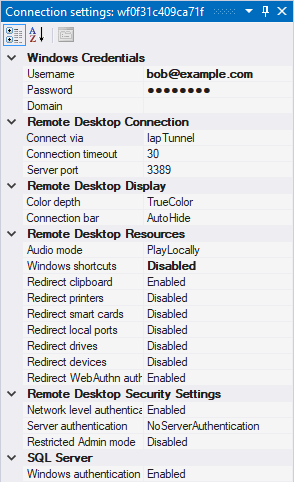
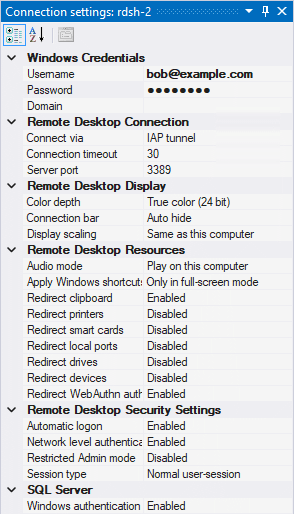
Update 'Connection settings window' page to include new settings, use new enum names

diff --git a/doc/site/sources/docs/toolwindow-connection-settings.md b/doc/site/sources/docs/toolwindow-connection-settings.md
@@ -63,31 +63,31 @@ a member of the _Administrators_ group or the _Remote Desktop users_ group.
 These settings control how IAP Desktop connects to your VM. You can let IAP Desktop connect in one
 of two ways:
 
-*   `IapTunnel`: By default, IAP Desktop connects to the [internal IP address :octicons-link-external-16:](https://cloud.google.com/compute/docs/ip-addresses#networkaddresses)
+*   **IAP Tunnel**: By default, IAP Desktop connects to the [internal IP address :octicons-link-external-16:](https://cloud.google.com/compute/docs/ip-addresses#networkaddresses)
     of your VM [through an IAP-TCP forwarding tunnel :octicons-link-external-16:](https://cloud.google.com/iap/docs/using-tcp-forwarding).
-*   `Vpc`: Alternatively, you can let IAP Desktop connect to the VM's internal IP address through Cloud VPN or Interconnect. If you use this option, 
+*   **VPN/Interconnect**: Alternatively, you can let IAP Desktop connect to the VM's internal IP address through Cloud VPN or Interconnect. If you use this option, 
     IAP Desktop doesn't use IAP-TCP forwarding.
     
 <table>
     <tr>
         <th>Setting</th>
         <th>Description</th>
-        <th>Required</th>
+        <th>Default</th>
     </tr>
     <tr>
         <td>Connect via</td>
         <td>Controls how IAP Desktop connects to your VM, see description above.</td>
-        <td>Yes</td>
+        <td></td>
     </tr>
     <tr>
         <td>Connection timeout</td>
         <td>Timeout for connecting to the VM, in seconds.</td>
-        <td>Yes</td>
+        <td>30 seconds</td>
     </tr>
     <tr>
         <td>Server port</td>
-        <td>Port to connect to, typically <code>3389</code>.</td>
-        <td>Yes</td>
+        <td>Port to connect to.</td>
+        <td><code>3389</code></td>
     </tr>
 </table>
 
@@ -100,17 +100,17 @@ These settings control the display settings for Remote Desktop.
     <tr>
         <th>Setting</th>
         <th>Description</th>
-        <th>Required</th>
+        <th>Default</th>
     </tr>
     <tr>
         <td>Color depth</td>
         <td>Color depth to use.</td>
-        <td>Yes</td>
+        <td>True color (24-bit)</td>
     </tr>
     <tr>
         <td>Connection bar</td>
         <td>Controls the behavior of the connection bar that's shown when you set the Remote Desktop session to full-screen.</td>
-        <td>Yes</td>
+        <td>Auto hide</td>
     </tr>
 </table>
 
@@ -122,58 +122,58 @@ These settings control which local and remote resources you want to share.
     <tr>
         <th>Setting</th>
         <th>Description</th>
-        <th>Required</th>
+        <th>Default</th>
     </tr>
     <tr>
         <td>Audio mode</td>
         <td>Controls where to play back audio.</td>
-        <td>Yes</td>
+        <td>On this computer</td>
     </tr>
     <tr>
-        <td>Windows shortcuts</td>
+        <td>Apply Windows shortcuts</td>
         <td>Controls whether IAP Desktop should send Windows shortcuts (such as <code>Win+R</code>) to the VM:
             <ul>
-                <li>Disabled: Don't capture shortcuts and handle them locally instead.</li>
-                <li>Enabled: Always capture shortcuts and handle them remotely.</li>
-                <li>FullScreenOnly: Only capture shortcuts when the Remote Desktop session is in full-screen mode.</li>
+                <li><b>On this computer</b>: Don't capture shortcuts and handle them locally instead.</li>
+                <li><b>On server</b>: Always capture shortcuts and handle them remotely.</li>
+                <li><b>Only in full-screen mode</b>: Only capture shortcuts when the Remote Desktop session is in full-screen mode.</li>
             </ul>
         </td>
-        <td>Yes</td>
+        <td>Only in full-screen mode</td>
     </tr>
     <tr>
         <td>Redirect clipboard</td>
         <td>Share the local clipboard with the remote VM.</td>
-        <td>Yes</td>
+        <td>Enabled</td>
     </tr>
     <tr>
         <td>Redirect printers</td>
         <td>Share local printers with the remote VM.</td>
-        <td>Yes</td>
+        <td>Disabled</td>
     </tr>
     <tr>
         <td>Redirect smart cards</td>
         <td>Share local smart cards with the remote VM.</td>
-        <td>Yes</td>
+        <td>Disabled</td>
     </tr>
     <tr>
         <td>Redirect local ports</td>
         <td>Share local ports with the remote VM.</td>
-        <td>Yes</td>
+        <td>Disabled</td>
     </tr>
     <tr>
         <td>Redirect drives</td>
         <td>Share local drives with the remote VM.</td>
-        <td>Yes</td>
+        <td>Disabled</td>
     </tr>
     <tr>
         <td>Redirect devices</td>
         <td>Share local devices with the remote VM.</td>
-        <td>Yes</td>
+        <td>Disabled</td>
     </tr>
     <tr>
         <td>Redirect WebAuthn authenticators</td>
         <td>Share WebAuthn authenticators with the remote VM.</td>
-        <td>Yes</td>
+        <td>Enabled</td>
     </tr>
 </table>
 
@@ -187,7 +187,19 @@ These settings control which RDP security mechanism to apply.
     <tr>
         <th>Setting</th>
         <th>Description</th>
-        <th>Required</th>
+        <th>Default</th>
+    </tr>
+    <tr>
+        <td>Automatic logon</td>
+        <td>
+            Controls whether IAP Desktop attempts to log you on automatically by using <a href="#windows-credentials">saved credentials</a>
+            or by offering to generate new Windows credentials.
+            <br><br>
+            Set this to <b>Disabled</b> for VMs that use the <a href="https://admx.help/?Category=Windows_10_2016&Policy=Microsoft.Policies.TerminalServer::TS_PASSWORD">Always prompt for password upon connection</a>
+            group policy setting to <a href="/iap-desktop/troubleshooting-rdp/#your-credentials-did-not-work-when-using-saved-credentials">
+            prevent duplicate password prompts</a>.
+        </td>
+        <td>Enabled</td>
     </tr>
     <tr>
         <td>Network level authentication</td>
@@ -199,18 +211,7 @@ These settings control which RDP security mechanism to apply.
             <br><br>
             Disabling NLA automatically enables server authentication.
         </td>
-        <td>Yes</td>
-    </tr>
-    <tr>
-        <td>Server authentication</td>
-        <td>
-            Controls whether to verify the VM's TLS certificate.
-            <br><br>
-            By default, IAP Desktop connects to the VM through an IAP-TCP forwarding tunnel. Tunneled connections
-            use a hostname such as <code>localhost:12345</code>, which is different from the VM's canonical hostname.
-            Because of this mismatch, certificate verification is unlikely to succeed and therefore off by default.
-        </td>
-        <td>Yes</td>
+        <td>Enabled</td>
     </tr>
     <tr>
         <td>Restricted Admin mode</td>
@@ -225,7 +226,21 @@ These settings control which RDP security mechanism to apply.
             </ul>
             If you don't meet these prerequisites, connecting to the VM might fail with the error <i>Account restrictions are preventing this user from signing in</i>.
         </td>
-        <td>Yes</td>
+        <td>Disabled</td>
+    </tr>
+    <tr>
+        <td>Session type</td>
+        <td>
+            Controls the type of RDP session to use:
+            <ul>
+                <li><b>Normal user session</b>: Establishes a normal user session.</li>
+                <li><b>RDS admin-session</b>: Establishes an administrative session, equivalent to running <code>mstsc /admin</code>.</li>
+            </ul>
+            This setting only affects VMs that operate as RDS session hosts. For further details, see 
+            <a href="https://techcommunity.microsoft.com/t5/security-compliance-and-identity/changes-to-remote-administration-in-windows-server-2008/ba-p/246577">
+            Changes to Remote Administration in Windows Server 2008</a>.
+        </td>
+        <td>Normal user session</td>
     </tr>
 </table>
 
@@ -253,7 +268,7 @@ or [metadata keys :octicons-link-external-16:](https://cloud.google.com/compute/
     <tr>
         <th>Setting</th>
         <th>Description</th>
-        <th>Required</th>
+        <th>Default</th>
     </tr>
     <tr>
         <td>Public key authentication</td>
@@ -265,7 +280,7 @@ or [metadata keys :octicons-link-external-16:](https://cloud.google.com/compute/
                 <li>Disabled: Use <code>password</code> or <code>keyboard-interactive</code>-based authentication.</li>
             </ul>
         </td>
-        <td>Yes</td>
+        <td>Enabled</td>
     </tr>
     <tr>
         <td>Username</td>
@@ -274,11 +289,11 @@ or [metadata keys :octicons-link-external-16:](https://cloud.google.com/compute/
             <br><br>
             This setting is ignored when using OS Login because OS Login automatically determines your username.
         </td>
-        <td>No</td>
+        <td></td>
     </tr>
     <tr>
         <td>Password</td>
         <td>Linux/Unix password</td>
-        <td>No</td>
+        <td></td>
     </tr>
 </table>

diff --git a/doc/site/sources/docs/troubleshooting-rdp.md b/doc/site/sources/docs/troubleshooting-rdp.md
@@ -109,7 +109,8 @@ This issue can be the intentional effect of the
 [Always prompt for password upon connection :octicons-link-external-16:](https://admx.help/?Category=Windows_10_2016&Policy=Microsoft.Policies.TerminalServer::TS_PASSWORD) 
 group policy setting. This policy is configured by default on [CIS hardened images :octicons-link-external-16:](https://www.cisecurity.org/cis-hardened-images/google/).
 
-To mitigate this issue, avoid saving passwords for affected Windows VMs and enter credentials manually instead.
+To mitigate this issue,  [disable automatic logons](toolwindow-connection-settings.md#remote-desktop-security-settings) in
+the VM's connection settings
 
 ## :material-message-alert: "Your credentials did not work"
 
